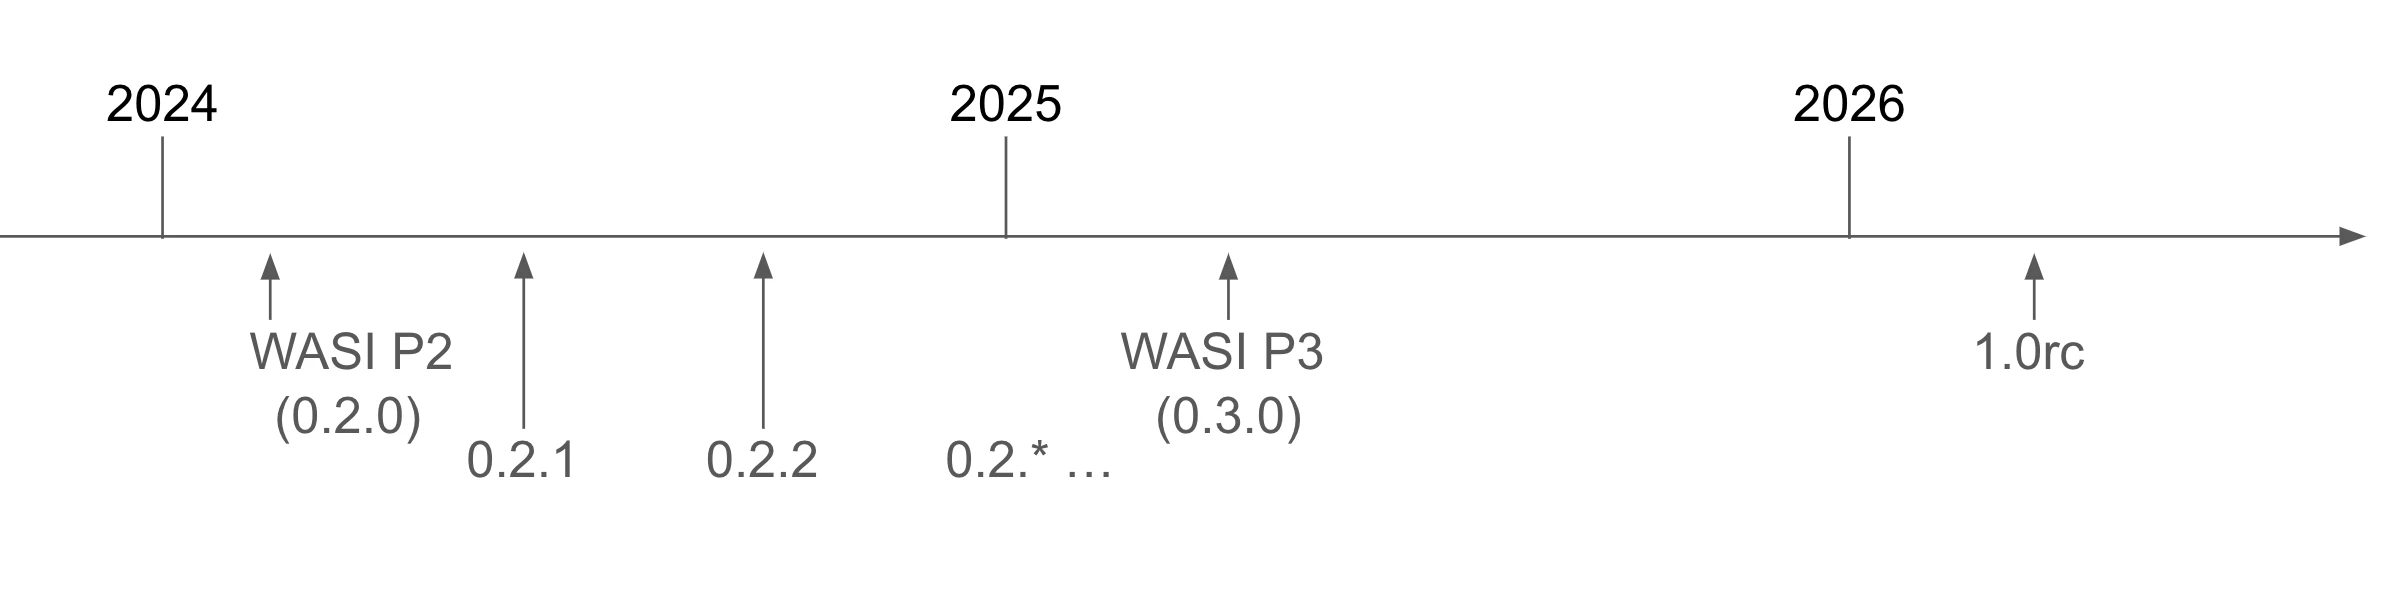
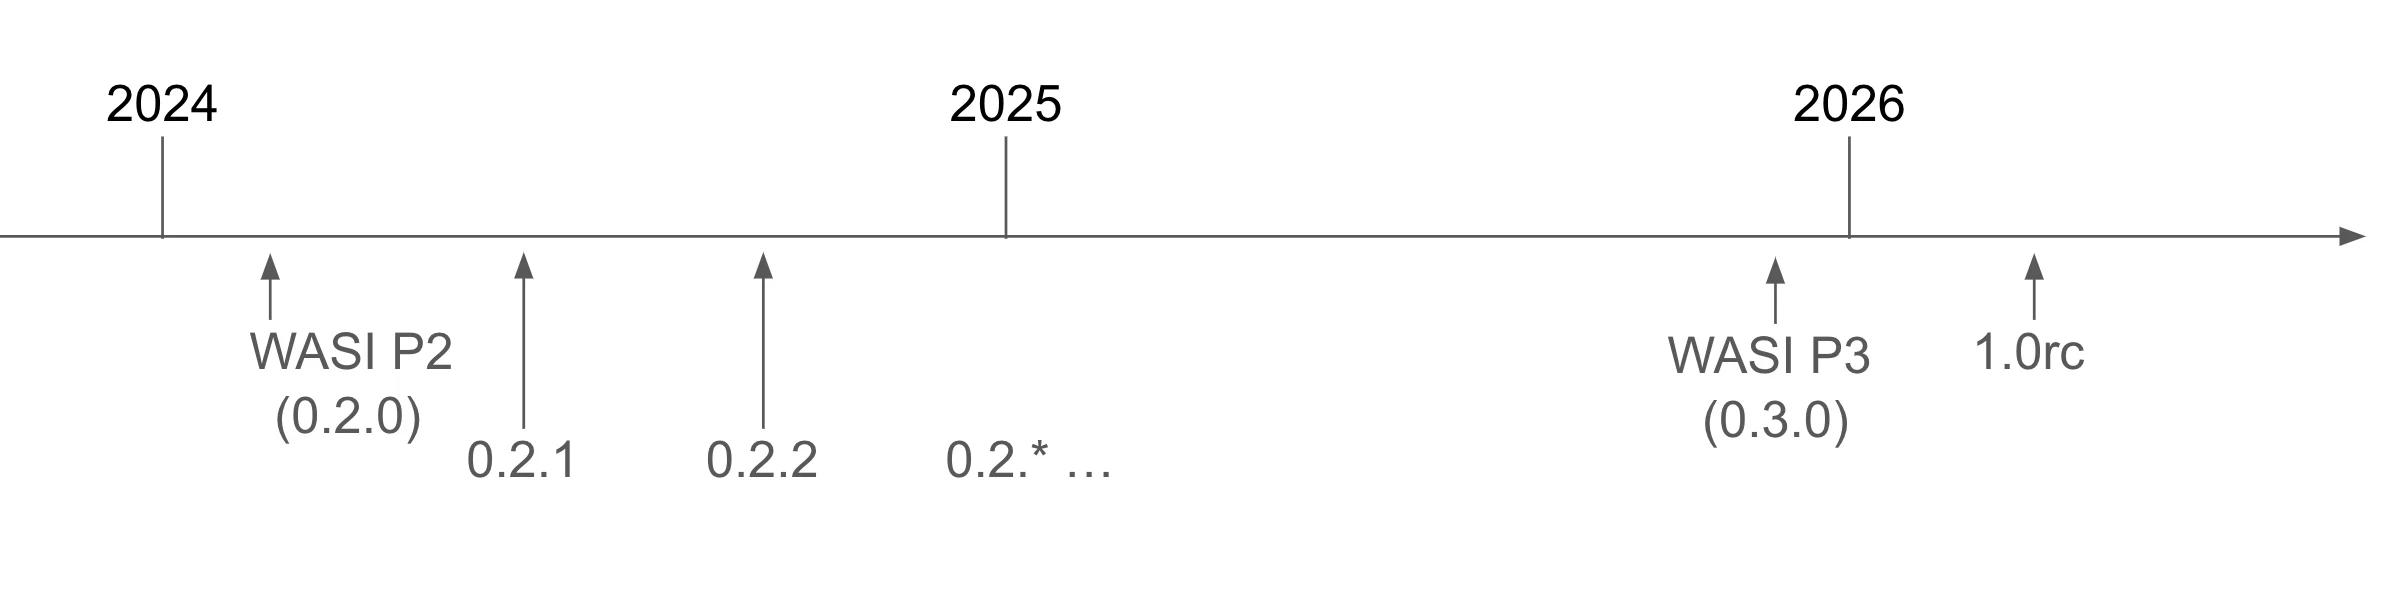
chore(docs): update WASI roadmap

diff --git a/docs/roadmap.md b/docs/roadmap.md
@@ -17,18 +17,15 @@ Previous releases:
 | 0.2.2        | 2024-10-03  |
 | 0.2.3        | 2024-12-05  |
 | 0.2.4        | 2025-02-06  |
-
-Future releases:
-
-| WASI version | Date        |
-|--------------|-------------|
 | 0.2.5        | 2025-04-03  |
 
 The release train for WASI 0.2 will end following the release of WASI 0.3.0.
 
 ## Upcoming WASI 0.3 releases
 
-WASI 0.3.0 is planning to release at the end of March 2025, adding **native async support** to the Component Model and refactoring WASI 0.2 interfaces to take advantage of native async. 
+At this time, WASI 0.3.0 previews are expected in August 2025 and completion is expected around November 2025. Please see the [presentation](https://github.com/WebAssembly/meetings/blob/main/wasi/2025/presentations/2025-05-01%20WASI%200.3.0%20Update%20May.pdf) and [notes](https://github.com/WebAssembly/meetings/blob/main/wasi/2025/WASI-05-01.md) from the May 2025 WASI SG meeting for more information. 
+
+WASI 0.3.0 will add **native async support** to the Component Model and refactor WASI 0.2 interfaces to take advantage of native async. 
 
 Native async will enable any component-level function to be implemented and/or called asynchronously, with asynchrony implemented at the level of the [Canonical ABI](https://component-model.bytecodealliance.org/advanced/canonical-abi.html). This includes explicit `stream<T>` and `future<T>` types for use anywhere in function parameters and results.
 
